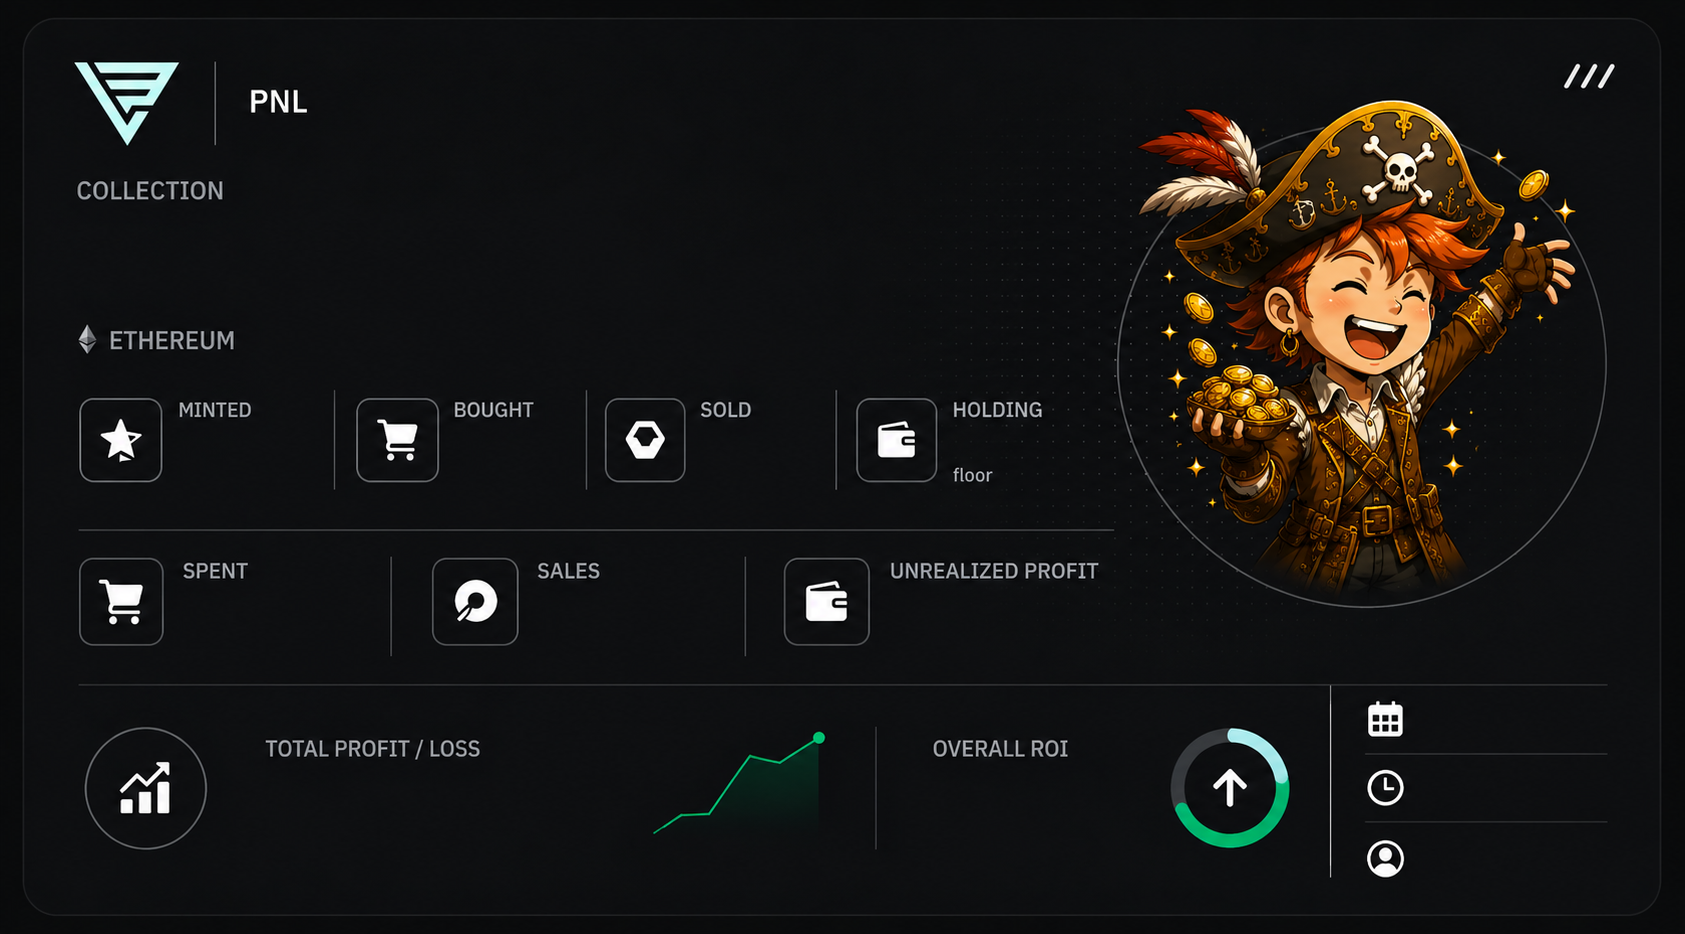
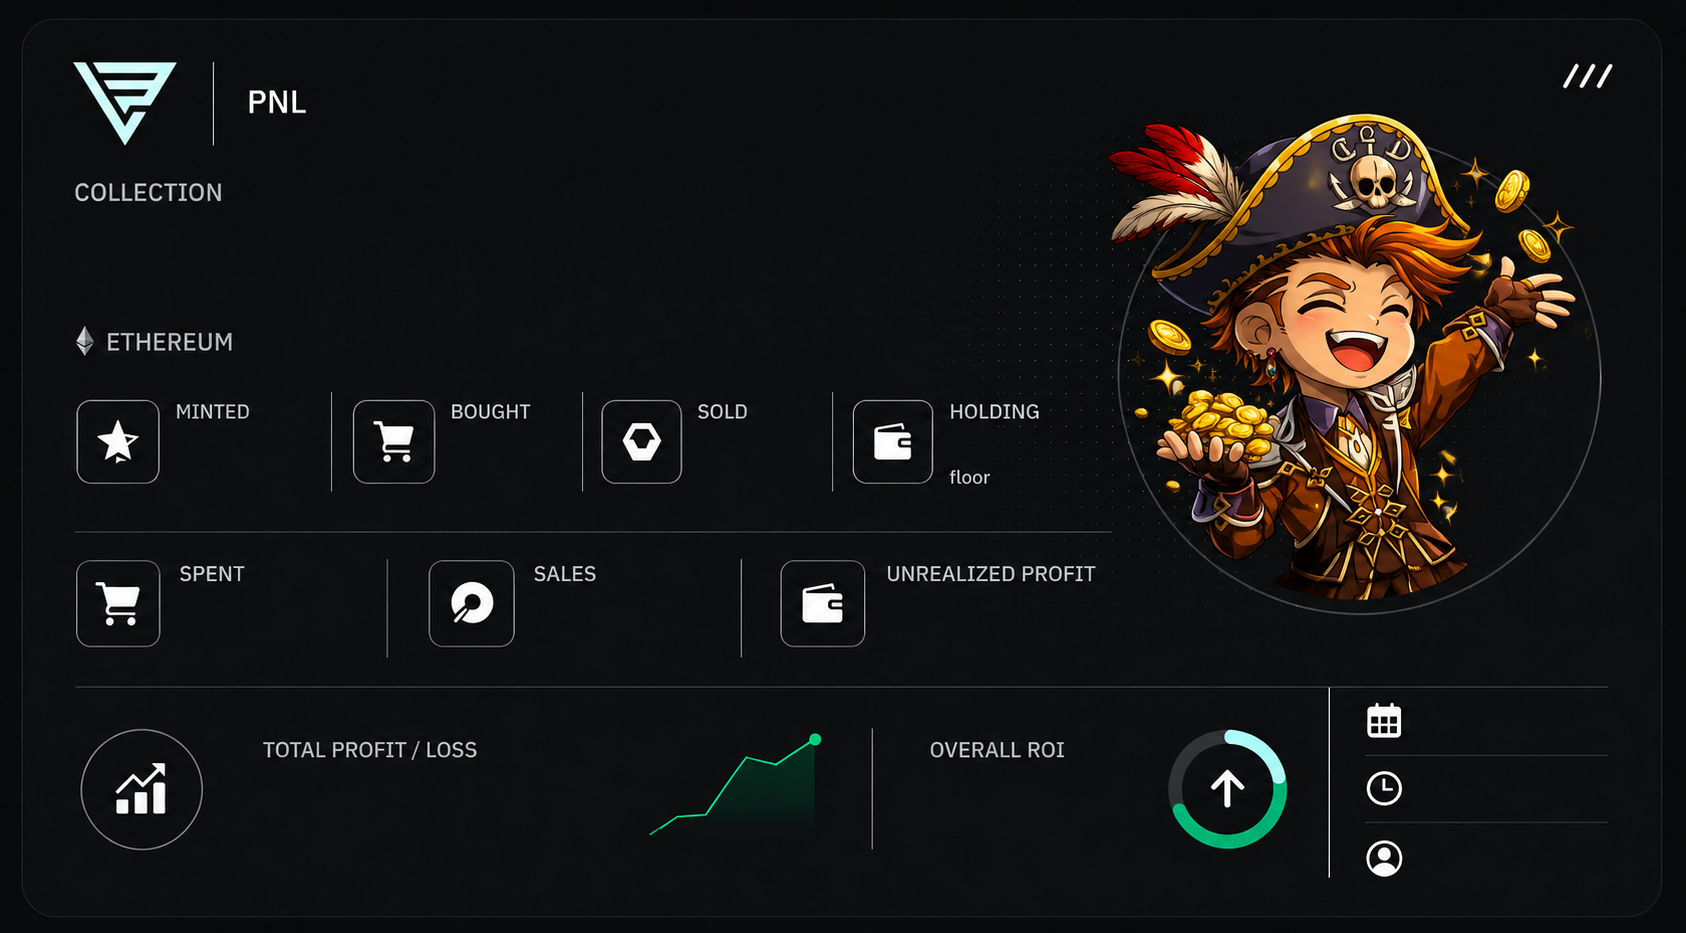
Update v3 PnL templates and holding subline rendering
Refresh the v3 win/loss panel templates and rework the holding-slot
subline to wipe the baked floor label, redrawing it cleanly.

diff --git a/src/pnl-panel-generator.js b/src/pnl-panel-generator.js
@@ -301,7 +301,18 @@ class PnlPanelGenerator {
       }
       ctx.font = '15px "Space Grotesk"';
       ctx.fillStyle = COLORS.gray;
-      ctx.fillText(sub, kind === 'holding' ? x + 52 : x, Y_SUB);
+      if (kind === 'holding') {
+        // The v3 templates have a baked "floor" label. Replace that small strip
+        // with nearby clean background, then draw the whole subline consistently.
+        const leftWipe = { x: x - 18, y: Y_SUB - 24, w: 18, h: 22 };
+        ctx.drawImage(canvas, leftWipe.x, Y_SUB + 12, leftWipe.w, leftWipe.h, leftWipe.x, leftWipe.y, leftWipe.w, leftWipe.h);
+        const wipe = { x: x - 18, y: Y_SUB - 16, w: 185, h: 30 };
+        ctx.drawImage(canvas, wipe.x, Y_SUB + 10, wipe.w, wipe.h, wipe.x, wipe.y, wipe.w, wipe.h);
+        ctx.fillText('floor', x, Y_SUB);
+        ctx.fillText(sub, x + ctx.measureText('floor').width + 8, Y_SUB);
+      } else {
+        ctx.fillText(sub, x, Y_SUB);
+      }
     };
 
     drawSlot(SLOT_X.minted, data.mintedCount || 0, data.mintedAvgEth || 0, 'minted');
